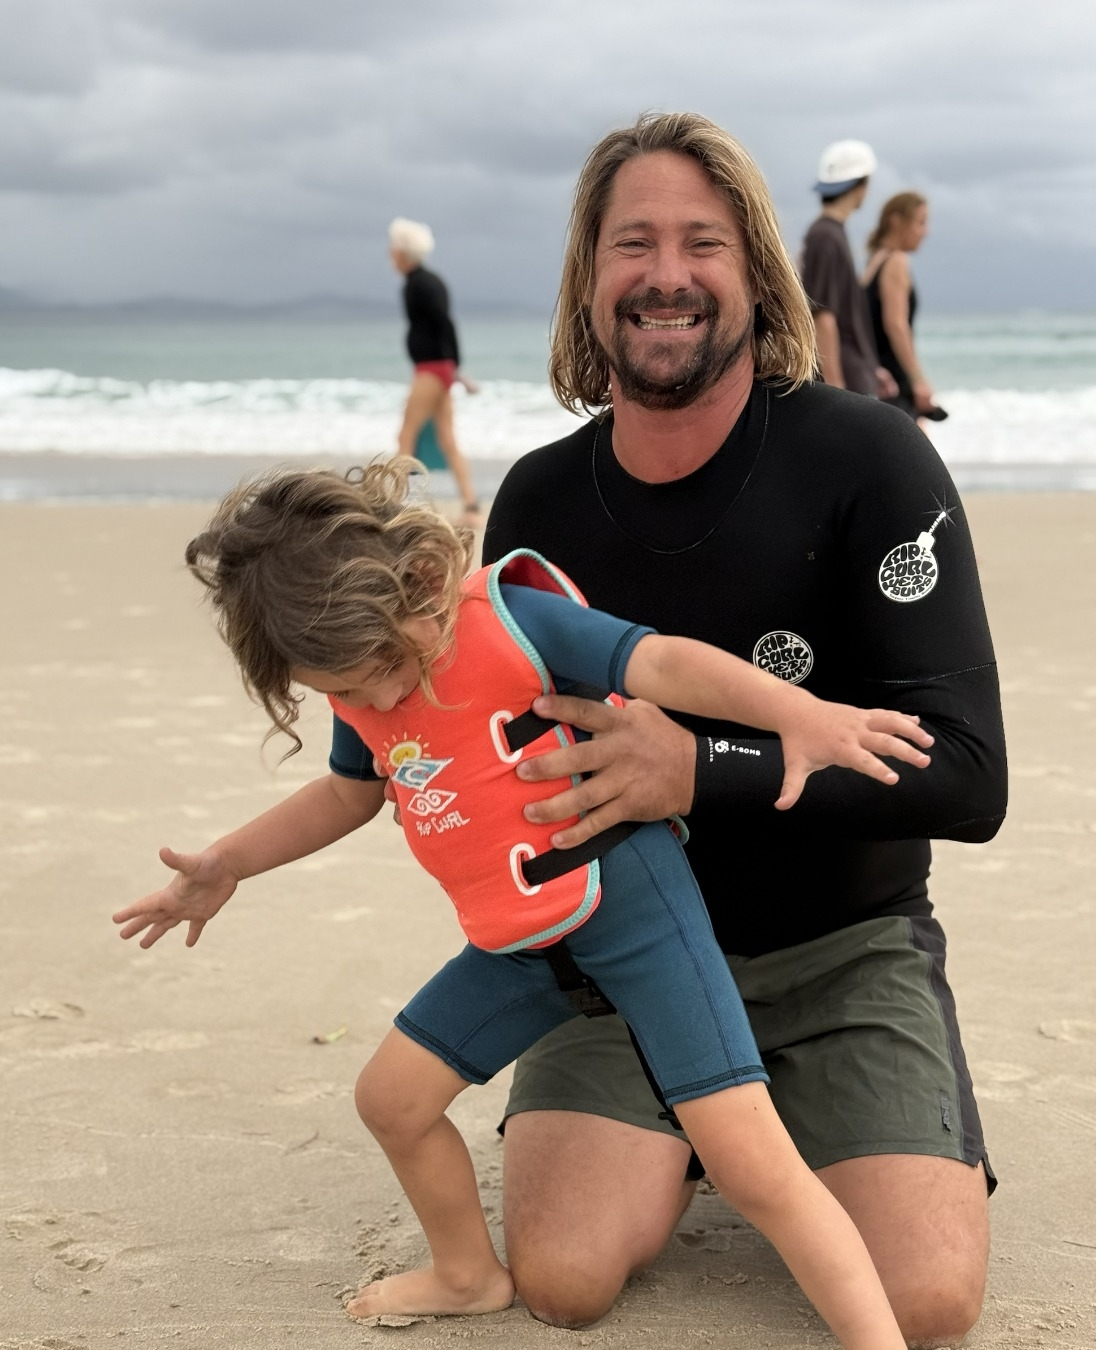
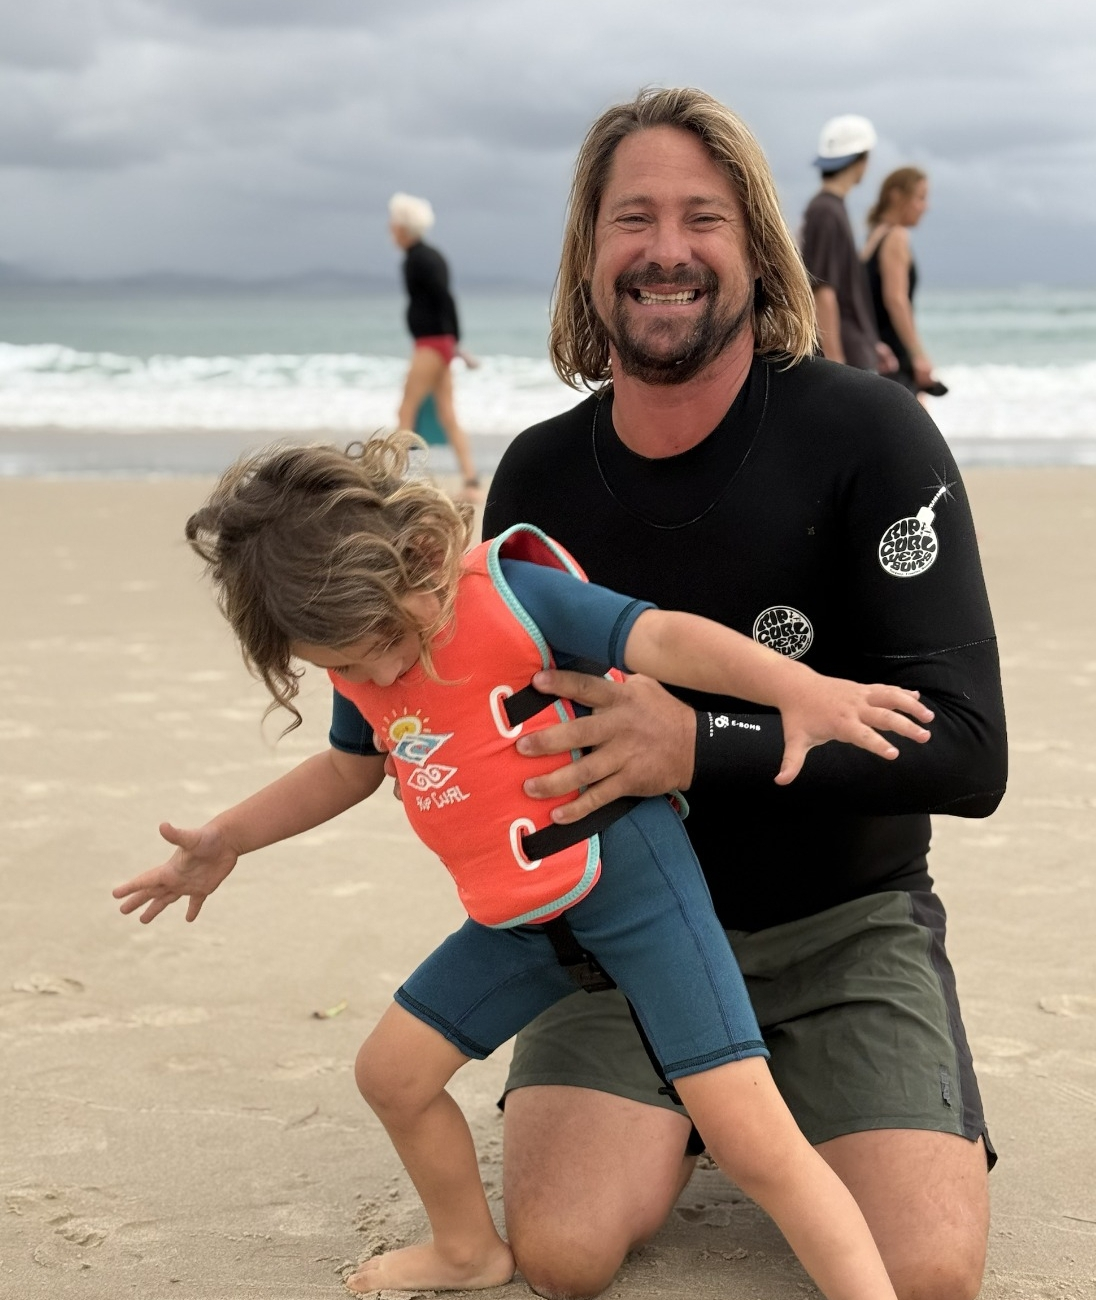
ENHANCE: Contact page with personal trust section and improved photo
Improvements:
• Added personal trust section with Daniel's photo between hero and contact form
• Cropped photo to remove white line for cleaner appearance
• Enhanced styling with subtle gradient background and card design
• Improved padding and spacing for better visual balance
• Added yellow highlight accents on key trust phrases
• Professional circular photo with double-border design
• Mobile responsive design for all devices
• Strategic placement to boost conversions at decision point

Trust-building elements:
• "Hey, I'm Daniel" personal introduction
• "Measure twice, cut once" reliability message
• "Honest work done properly" value proposition
• Face-to-face connection before contact form

🤖 Generated with [Claude Code](https://claude.ai/code)

diff --git a/contact.html b/contact.html
@@ -226,6 +226,66 @@
             padding: 80px 0;
         }
 
+        /* Personal Trust Section */
+        .trust-section {
+            padding: 60px 0;
+            background: linear-gradient(135deg, #f8f9fa 0%, #fff9e6 100%);
+            border-top: 1px solid rgba(255, 184, 0, 0.2);
+            border-bottom: 1px solid rgba(255, 184, 0, 0.2);
+        }
+
+        .trust-grid {
+            display: grid;
+            grid-template-columns: 140px 1fr;
+            gap: 40px;
+            align-items: center;
+            max-width: 800px;
+            margin: 0 auto;
+            padding: 30px 40px;
+            background: var(--white);
+            border-radius: 16px;
+            box-shadow: 0 8px 25px rgba(0,0,0,0.08);
+            border: 1px solid rgba(255, 184, 0, 0.15);
+        }
+
+        .trust-image {
+            border-radius: 50%;
+            overflow: hidden;
+            box-shadow: 0 6px 20px rgba(255, 184, 0, 0.3);
+            border: 4px solid var(--white);
+            outline: 2px solid var(--yellow-primary);
+        }
+
+        .trust-image img {
+            width: 100%;
+            height: 100%;
+            object-fit: cover;
+            aspect-ratio: 1;
+        }
+
+        .trust-content h3 {
+            font-size: 1.5rem;
+            font-weight: 900;
+            color: var(--charcoal);
+            margin-bottom: 16px;
+            letter-spacing: -0.02em;
+        }
+
+        .trust-content p {
+            color: var(--dark-grey);
+            font-size: 1.1rem;
+            line-height: 1.7;
+            margin-bottom: 0;
+            font-weight: 400;
+        }
+
+        .trust-highlight {
+            color: var(--charcoal);
+            font-weight: 700;
+            background: linear-gradient(to bottom, transparent 65%, rgba(255, 184, 0, 0.3) 65%);
+            padding: 0 2px;
+        }
+
         .contact-grid {
             display: grid;
             grid-template-columns: 1fr 1fr;
@@ -811,6 +871,27 @@
                 grid-template-columns: 1fr;
                 gap: 40px;
             }
+
+            .trust-section {
+                padding: 50px 20px;
+            }
+
+            .trust-grid {
+                grid-template-columns: 110px 1fr;
+                gap: 25px;
+                padding: 25px 30px;
+                max-width: 90%;
+            }
+
+            .trust-content h3 {
+                font-size: 1.3rem;
+                margin-bottom: 12px;
+            }
+
+            .trust-content p {
+                font-size: 1rem;
+                line-height: 1.6;
+            }
         }
 
         @media (max-width: 968px) {
@@ -909,6 +990,21 @@
             <div class="hero-content">
                 <h1>Get Your Free Quote Today</h1>
                 <p>Ready to get started? Contact Dan for your free, no-obligation quote. Same-day response for emergencies, 24-hour quotes for all other work.</p>
+            </div>
+        </div>
+    </section>
+
+    <!-- Personal Trust Section -->
+    <section class="trust-section">
+        <div class="container">
+            <div class="trust-grid">
+                <div class="trust-image">
+                    <img src="daniel-handyman.jpg" alt="Daniel - Your local Northern Rivers handyman" loading="lazy">
+                </div>
+                <div class="trust-content">
+                    <h3>Hey, I'm Daniel</h3>
+                    <p>I'm a <span class="trust-highlight">measure twice, cut once</span> type of guy who treats your home like my own. No dodgy shortcuts, no surprises - just <span class="trust-highlight">honest work done properly</span>. Give me a call and let's chat about your project.</p>
+                </div>
             </div>
         </div>
     </section>
